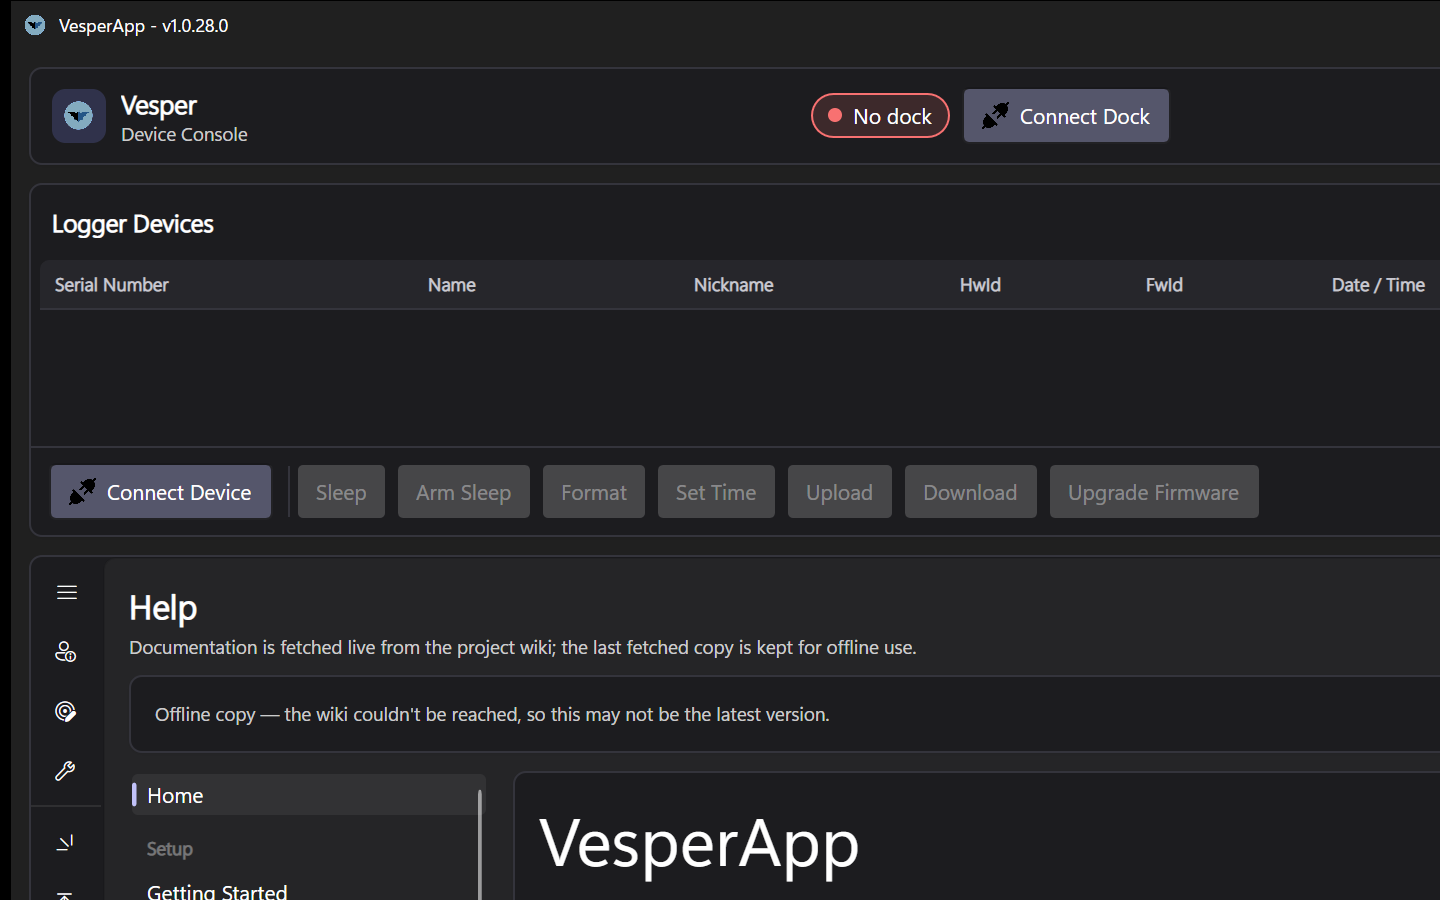
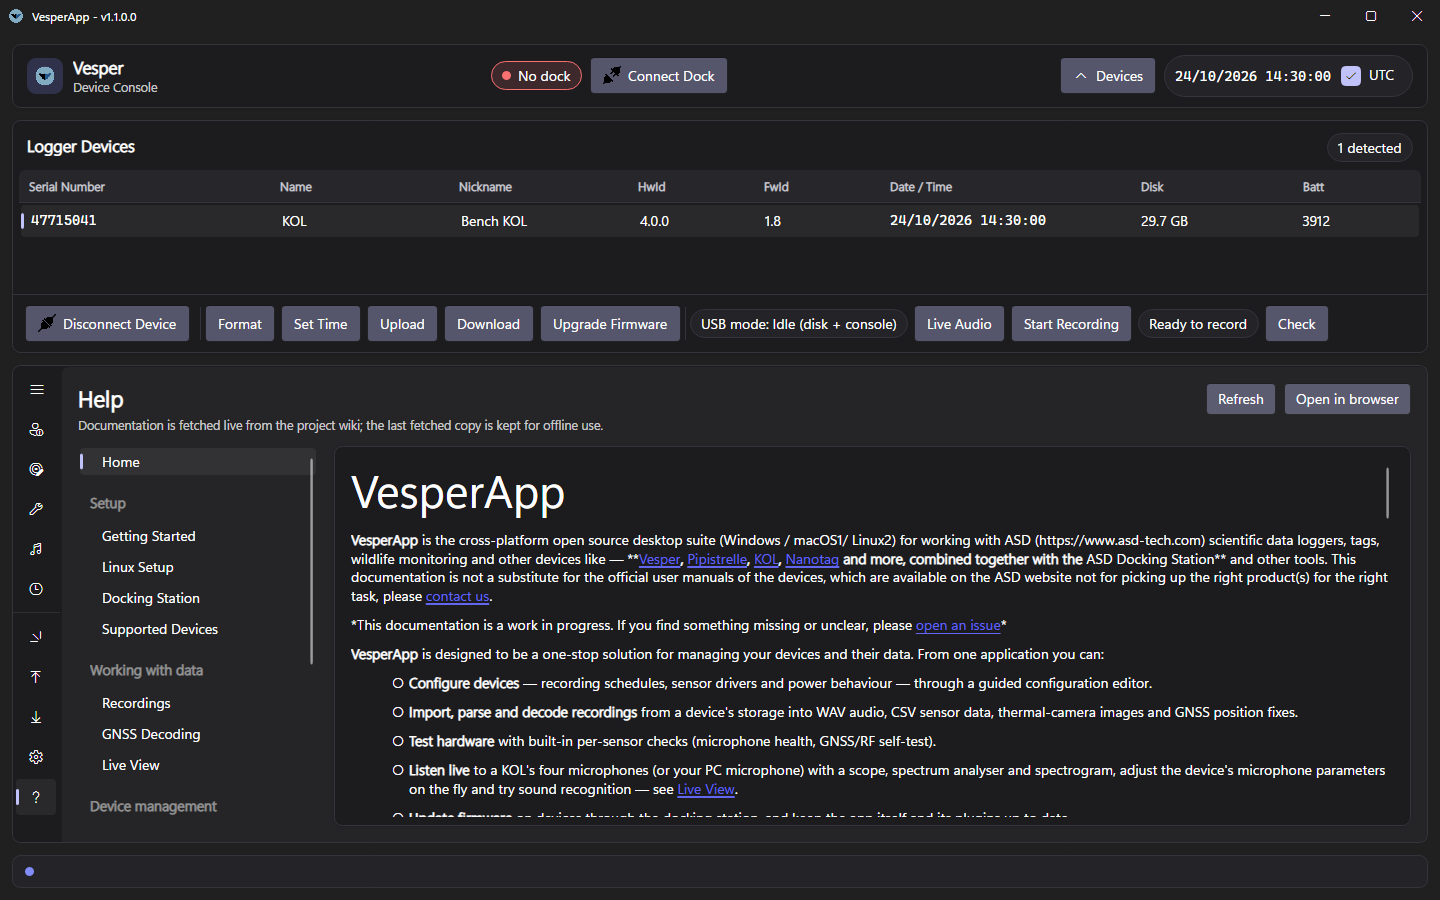
Wiki: screenshots rendered from the current app; Clock page image; KOL device console and sensor settings; Getting Started tabs and fixes
Screens rendered offscreen from the real MainWindow (Avalonia headless + Skia) at 1440x900
with a KOL staged in the device console: Recordings, Configuration (daily KOL schedule),
Device Tests, Clock (new), Software / Firmware Upgrades, Plugins, Settings, Help; new
device-console-kol.png and config-kol-sensor.png; app tour GIF rebuilt. Live View keeps
the September stream captures. Getting Started: Live View and Clock in the tab table,
direct-USB connection, typos.

diff --git a/VesperApp/docs/wiki/Getting-Started.md b/VesperApp/docs/wiki/Getting-Started.md
@@ -32,7 +32,7 @@ On first launch the app creates:
 
 ![The VesperApp main window](images/tab-recordings.png)
 
-*The main window: docking station controls, device console and logger list on top, the active tab below, and the tab navigation on the left edge.*
+*The main window: docking station controls, device console and logger list on top (here with a KOL connected directly over USB), the active tab below, and the tab navigation on the left edge.*
 
 The **Devices** button in the top-right corner collapses the device console when you're doing offline work (editing configurations, decoding recordings, reading Help) so the working area gets the full window height. The console re-opens automatically when a docking station connects, and the choice is remembered between sessions.
 
@@ -42,7 +42,9 @@ The left-hand navigation gives you the main areas of the app:
 |---|---|
 | **Recordings** | Import, parse and decode device recordings |
 | **Configuration** | Edit a recording schedule and sensor setup configuration file |
-| **Device Tests** | Per-sensor checks to vaidate hardware  (microphones, GNSS/RF) |
+| **Device Tests** | Per-sensor checks to validate hardware (microphones, GNSS/RF) |
+| **Live View** | The microphones in real time: scope, spectrum, spectrogram, live microphone settings and the sound-trigger meter |
+| **Clock** | Set a unit's clock from internet time and calibrate its crystal |
 | **Software Upgrades** | Update the VesperApp itself |
 | **Firmware Upgrades** | Download and flash device firmware |
 | **Plugins** | Manage the GNSS decoder and other plugins |
@@ -53,7 +55,7 @@ The tab shown at startup is configurable in [Settings](Settings).
 
 ## Connecting hardware
 
-1. Plug the **docking station** (in case of a device does not have a built-in USB port) into a USB port (see [Docking Station](Docking-Station)).
+1. Plug the **docking station** into a USB port (see [Docking Station](Docking-Station)). A KOL — and a Vesper or Pipistrelle with firmware 1.22 or later — can instead be connected directly with its own USB cable: it appears in the device list by itself; select it and press **Connect Device**.
 2. Insert your device into the dock, or connect a device directly over USB where supported (see [Supported Devices](Supported-Devices)).
 3. Use the dock **Connect** button in the app. If more than one dock is attached you will be asked to pick one by serial number.
 
@@ -65,9 +67,9 @@ Once connected, use Docking Station controls to manipulate the device (for examp
 ## A typical session
 
 1. **Connect** the dock and device.
-2. Optionally **reconfigure** the device for its next deployment byt copy an existing configuration file to the device or use ([Configuration Editor](Configuration-Editor)) to create a new one.
+2. Optionally **reconfigure** the device for its next deployment: copy an existing configuration file to the device, or create a new one with the [Configuration Editor](Configuration-Editor).
 3. Optionally run a quick [hardware verification test](Device-Tests).
-4. Deploy the device in the field / lab accordint to specifications and activate the recording schedule.
-5. Once the device is retreived, reconnect and reestablish conenction per device's documentaion. 
+4. Deploy the device in the field or lab according to its specifications and start the recording schedule (on a KOL: **Start Recording**, see [Supported Devices](Supported-Devices)).
+5. Once the device is retrieved, reconnect it as described in its documentation (a KOL stops recording when it is connected to a computer).
 6. **Import** the device's recordings in the **Recordings** tab — with *Auto Decode* enabled, raw files are parsed and decoded to WAV/CSV in one step ([Recordings](Recordings)).
 7. Review decoded output in your working directory.

diff --git a/VesperApp/docs/wiki/Configuration-Editor.md b/VesperApp/docs/wiki/Configuration-Editor.md
@@ -4,7 +4,7 @@ The **Configuration** tab edits the JSON configuration that tells a device *what
 
 ![The Configuration tab](images/tab-configuration.png)
 
-*The Configuration tab: device type selection, schedule editor and per-sensor driver settings.*
+*The Configuration tab: device type selection, general settings, the schedule editor (here a daily schedule for a KOL: 48 kHz in the evening, 250 kHz at night) and per-sensor driver settings.*
 
 ## General device settings
 
@@ -59,6 +59,10 @@ Every driver pane has the same layout: **Standard configuration** first (sample 
 **File Size** is always a multiple of 64 KB (65,536 bytes): the largest buffer the firmware writes at once and a whole number of allocation clusters, so every file ends on a full buffer. Other values are rounded to the nearest multiple; 0 leaves the firmware's minimum for the sensor (8 MB for the microphones).
 
 For the KOL's microphone array, the channel configuration (1, 2 or 4 microphones) is part of the audio driver settings.
+
+![The KOL sensor settings](images/config-kol-sensor.png)
+
+*The KOL sensor's settings: sample rate and duty cycle per configuration, number of microphones, high-pass filter and gain (each with **Solve**), the sound trigger with its **Helper**, and the file size.*
 
 **Microphone sample rate, gain and high-pass filter (KOL, Vesper, Pipistrelle).** Pick the sample rates from the list (4 kHz – 400 kHz). The unit chooses the best digital filter for each rate itself — there is no filter setting to get wrong. Most rates are exact; the 44.1 kHz family and 250 / 256 / 384 kHz run at the closest rate the 4.8 MHz microphone clock allows, shown next to the value and stored in the recording header. The **gain** applies to *Sample Rate [1]* (or [2] if [1] is off); the unit keeps the same loudness at the other rate (and, on the KOL, in Live Audio) with KOL firmware 1.8 / Vesper and Pipistrelle firmware 1.22 or later.
 

diff --git a/VesperApp/docs/wiki/Clock-Calibration.md b/VesperApp/docs/wiki/Clock-Calibration.md
@@ -4,6 +4,10 @@ KOL, Vesper and Pipistrelle loggers keep time with a 32.768 kHz crystal. Every c
 
 This needs firmware with the time-sync commands (KOL 1.8 / Vesper 1.22 or later). Older firmware still gets a plain whole-second **Set Time**.
 
+![The Clock tab](images/tab-clock.png)
+
+*The Clock tab: sync, measure and apply on the toolbar; the unit's clock against internet time, its calibration and temperature, and the history of measurements for this unit.*
+
 ## Where the time comes from
 
 The app asks internet time servers (NTP) for the true time; the PC's own clock is often off by a second or more. If no server answers (the network blocks UDP port 123), the page says so and falls back to the PC clock — fine for setting the time roughly, not for calibration. To use your own time servers set the environment variable `VESPERAPP_NTP_SERVERS` (comma separated).

diff --git a/VesperApp/docs/wiki/Supported-Devices.md b/VesperApp/docs/wiki/Supported-Devices.md
@@ -43,6 +43,11 @@ A multi-microphone logger with a **4-microphone array** that can be configured t
 
 The KOL is not activated with a magnet. Its USB cable decides what it does:
 
+![The device console with a KOL connected](images/device-console-kol.png)
+
+*A KOL in the device console: its USB mode, **Live Audio**, **Start Recording**, whether it is ready to record (hover for card, config.json and clock) and **Check**.*
+
+
 | State | When | LED | What the computer sees |
 |---|---|---|---|
 | **Sleep** | Unplugged and not recording | Off (one 2 s flash when it goes to sleep) | Nothing |
